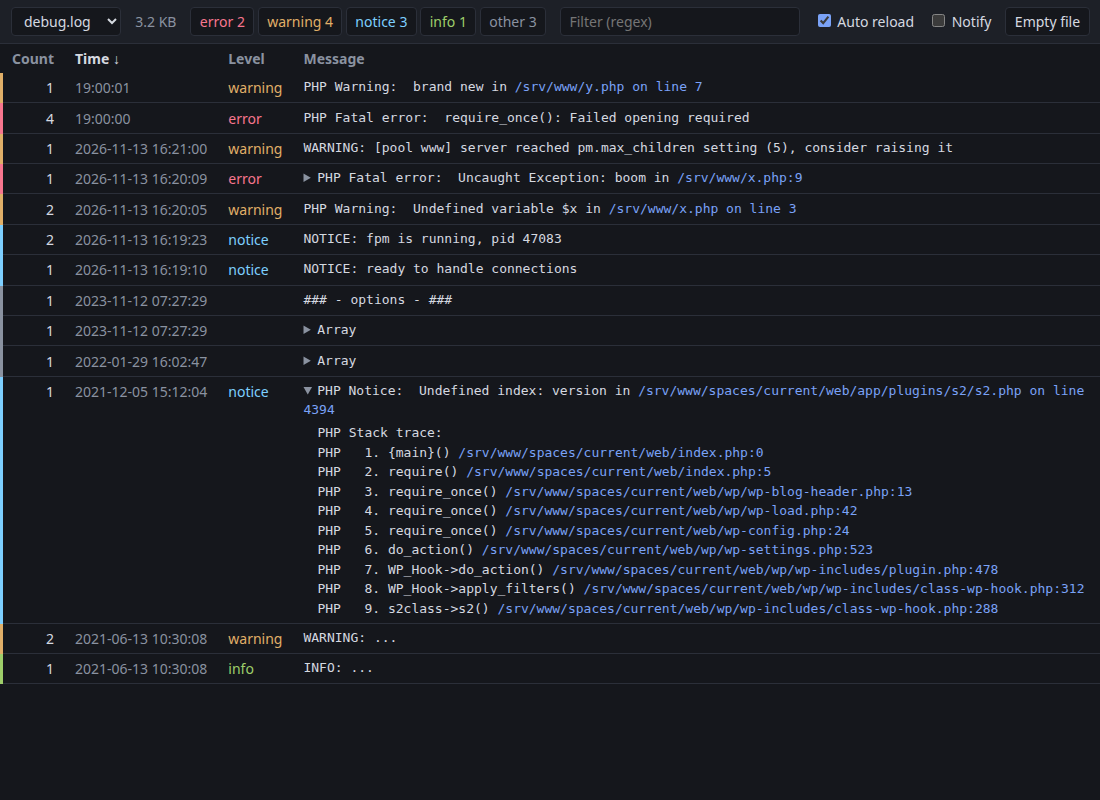
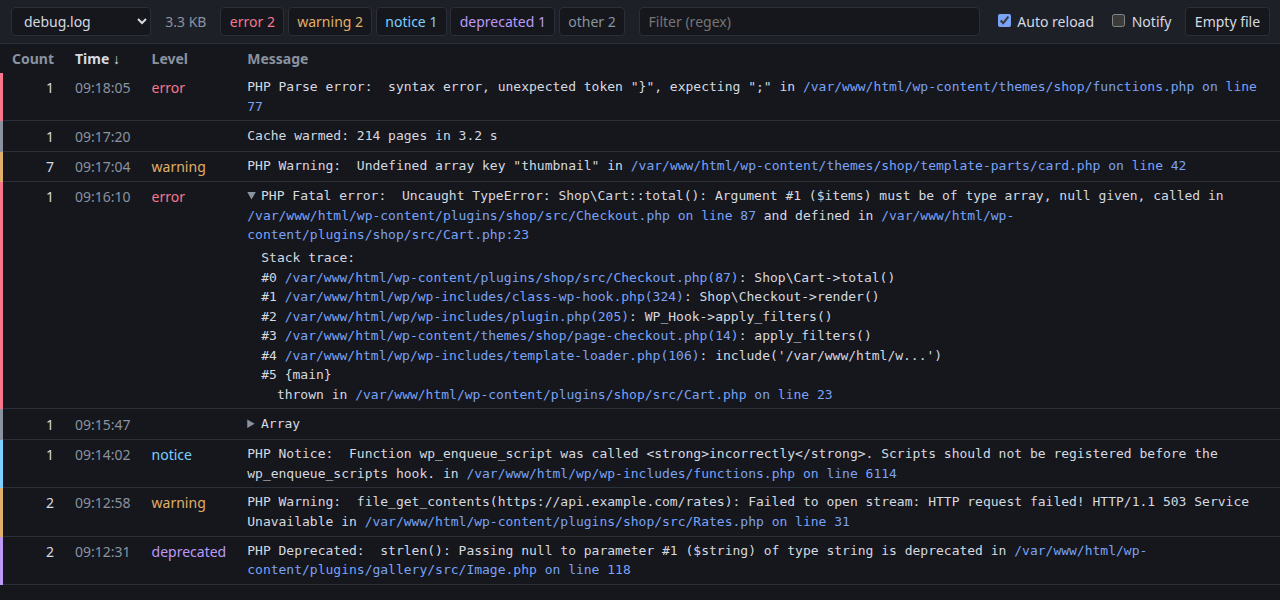
docs(php-error-log-viewer): new screenshot, sample paths and comments without project names

diff --git a/src/ui.js b/src/ui.js
@@ -1,7 +1,7 @@
 'use strict';
 
 const LEVELS = ['error', 'warning', 'notice', 'deprecated', 'info', 'debug', ''];
-const PAGE = 300; // Rows drawn until all are asked for.
+const PAGE = 300; // Rows drawn until "Show all" is pressed.
 const INTERVAL = 3000;
 // A path with a line number: "/a/b.php(12)", "/a/b.php:12", "C:\a\b.php on line 12".
 const PATH = /((?:[A-Z]:)?[\\/][^:(\s]+)(?: on line |[:(])(\d+)\)?/g;
@@ -229,7 +229,7 @@ $('notify').checked = notifiable && prefs.notify && Notification.permission === 
 if (notifiable) $('notify').parentNode.title = 'Notifies about new entries that pass the filter while this tab is in the background.';
 else {
 	$('notify').parentNode.append(' (needs HTTPS or localhost)');
-	$('notify').parentNode.title = 'Browsers allow notifications over HTTPS or on localhost only. To get them here: run "php -S localhost:8799" in the viewer\'s folder and open http://localhost:8799/. Or, in Chrome, list this address under chrome://flags/#unsafely-treat-insecure-origin-as-secure.';
+	$('notify').parentNode.title = 'Browsers allow notifications over HTTPS or on localhost only. To get them here: run "php -S localhost:8799" in the viewer\'s folder and open it through http://localhost:8799/. Or, in Chrome, list this address under chrome://flags/#unsafely-treat-insecure-origin-as-secure.';
 }
 $('notify').onchange = async event => {
 	prefs.notify = event.target.checked && await Notification.requestPermission() === 'granted';

diff --git a/src/Viewer.php b/src/Viewer.php
@@ -31,7 +31,7 @@ final class Viewer
     }
 
     /**
-     * Reads php-error-log-viewer.ini from the viewer's folder, else from its grandparent (outside a composer vendor folder).
+     * Reads php-error-log-viewer.ini from the viewer's folder, else from its grandparent (for a composer install: vendor/).
      *
      * @return array<string, mixed> The settings, with absolute log paths in 'files'.
      */
@@ -45,7 +45,7 @@ final class Viewer
             }
         }
         foreach ($ini as $key => $value) {
-            if (str_starts_with($key, 'vscode_')) { // The names before links were editor-agnostic.
+            if (str_starts_with($key, 'vscode_')) { // Former names, from when links went to VS Code only.
                 $ini['link_' . substr($key, 7)] ??= $value;
             }
         }

diff --git a/readme.md b/readme.md
@@ -69,9 +69,9 @@ Logs hold sensitive data, and this tool can empty them. It is meant for developm
 
 Paths followed by a line number become links. `link_path_search` and `link_path_replace` translate a server path into a local one (a VM, a container). These are recognized:
 
-- `/srv/www/web/app/themes/defaultspace/functions.php(605)`: get_post_card(Object(WP_Post), Array)
-- ... called in `C:\foo\bar/themes/defaultspace/functions.php on line 605`
-- ... and defined in `C:\foo\bar/themes/defaultspace/functions.php:63`
+- `/srv/www/web/app/themes/mytheme/functions.php(605)`: get_post_card(Object(WP_Post), Array)
+- ... called in `C:\foo\bar/themes/mytheme/functions.php on line 605`
+- ... and defined in `C:\foo\bar/themes/mytheme/functions.php:63`
 
 A [VS Code snippet](https://code.visualstudio.com/docs/editor/userdefinedsnippets) that logs with such a path:
 
